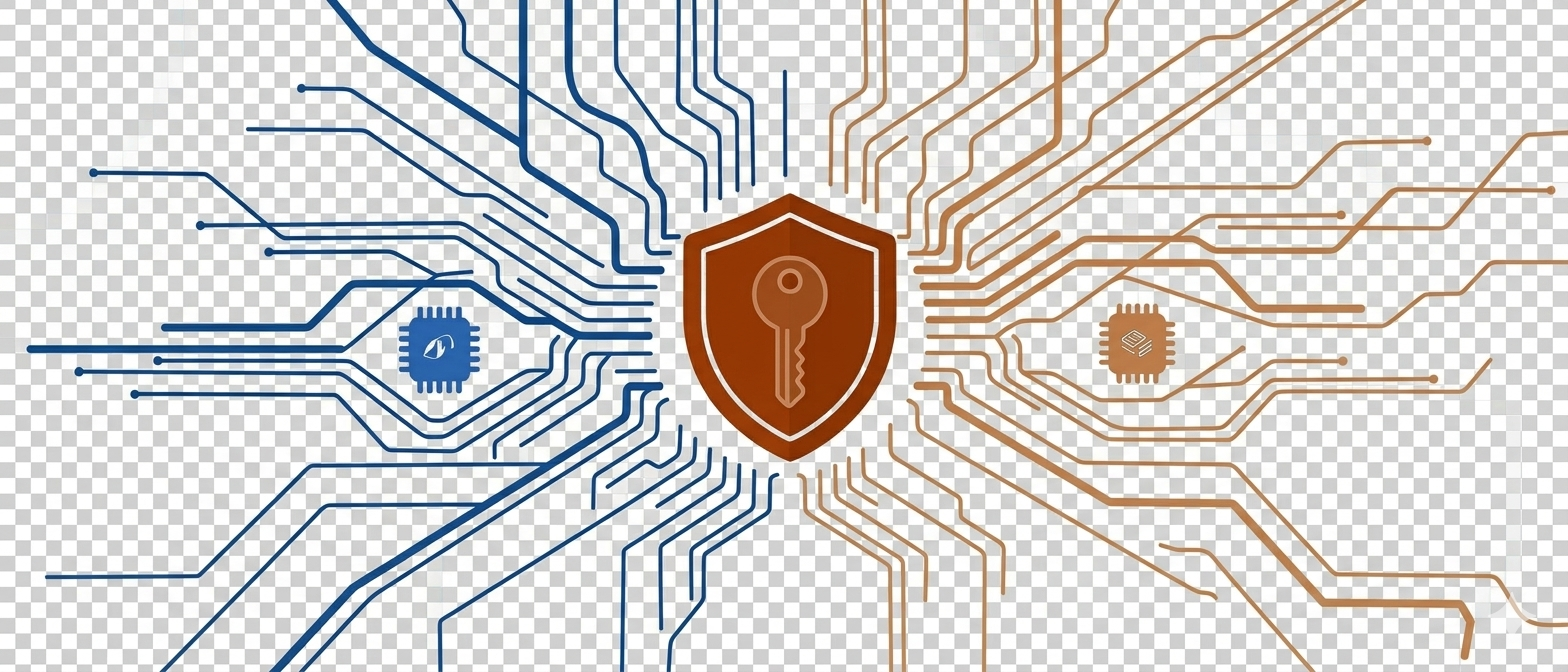
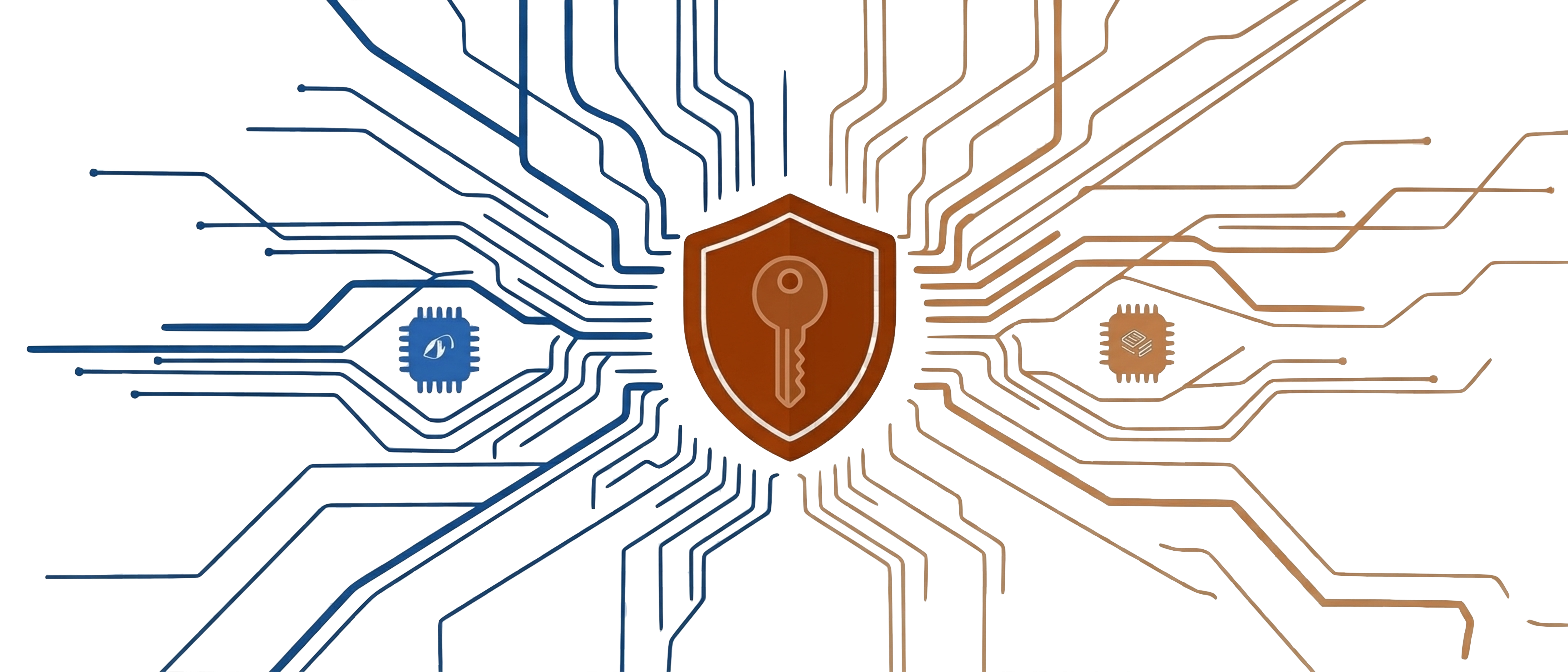
feat: wallet UI build out

diff --git a/app/(tabs)/wallet.tsx b/app/(tabs)/wallet.tsx
@@ -1,32 +1,18 @@
-import * as React from 'react';
-import { ScrollView, RefreshControl, View, Pressable } from 'react-native';
-import * as Clipboard from 'expo-clipboard';
-import * as Haptics from 'expo-haptics';
-import { useStore } from '@tanstack/react-store';
+import { QRCode } from '@/components/ui/QRCode';
 import { Screen } from '@/components/ui/Screen';
 import { Text } from '@/components/ui/text';
-import { Button } from '@/components/ui/button';
-import { MaterialIcons } from '@expo/vector-icons';
-import { useColorScheme } from 'nativewind';
-import { THEME } from '@/lib/theme';
-import { Modal } from '@/components/Modal';
-import { QRCode } from '@/components/ui/QRCode';
-import { networkStore, setNetwork, type Network } from '@/stores/network';
-import { useActiveAccount } from '@/hooks/useActiveAccount';
 import { useAccountBalance } from '@/hooks/useAccountBalance';
+import { useActiveAccount } from '@/hooks/useActiveAccount';
+import { THEME } from '@/lib/theme';
+import { networkStore } from '@/stores/network';
 import { formatMicroAmount, truncateAddress } from '@/utils/format';
-import { cn } from '@/lib/utils';
-
-const NETWORKS: Network[] = ['testnet', 'mainnet'];
-
-function BalanceCard({ label, amount }: { label: string; amount: bigint }) {
-  return (
-    <View className="mb-4 rounded-2xl bg-card p-5">
-      <Text className="mb-1 text-sm text-muted-foreground">{label}</Text>
-      <Text className="text-2xl font-bold text-card-foreground">{formatMicroAmount(amount, 6)}</Text>
-    </View>
-  );
-}
+import { MaterialIcons } from '@expo/vector-icons';
+import { useStore } from '@tanstack/react-store';
+import * as Clipboard from 'expo-clipboard';
+import * as Haptics from 'expo-haptics';
+import { useColorScheme } from 'nativewind';
+import * as React from 'react';
+import { Pressable, RefreshControl, ScrollView, View } from 'react-native';
 
 export default function WalletTab() {
   const network = useStore(networkStore, (s) => s.network);
@@ -34,10 +20,7 @@ export default function WalletTab() {
   const iconColor = colorScheme === 'dark' ? THEME.dark.primary : THEME.light.primary;
   const { address } = useActiveAccount();
   const { algoMicro, usdcMicro, isRefreshing, error, refetch } = useAccountBalance(address, network);
-  // `copied` is shared intentionally: the address-card icon and the modal copy
-  // button both reflect the same "address copied" feedback.
   const [copied, setCopied] = React.useState(false);
-  const [receiveOpen, setReceiveOpen] = React.useState(false);
   const copyResetTimer = React.useRef<ReturnType<typeof setTimeout> | null>(null);
 
   React.useEffect(
@@ -62,32 +45,23 @@ export default function WalletTab() {
         refreshControl={<RefreshControl refreshing={isRefreshing} onRefresh={refetch} />}
         showsVerticalScrollIndicator={false}
       >
-        <View className="my-4 flex-row rounded-full bg-muted p-1">
-          {NETWORKS.map((n) => (
-            <Pressable
-              key={n}
-              onPress={() => setNetwork(n)}
-              accessibilityRole="radio"
-              accessibilityState={{ selected: network === n }}
-              className={cn('flex-1 items-center rounded-full py-2', network === n && 'bg-background')}
-            >
-              <Text
-                className={cn(
-                  'text-sm capitalize',
-                  network === n ? 'font-semibold text-foreground' : 'text-muted-foreground',
-                )}
-              >
-                {n}
-              </Text>
-            </Pressable>
-          ))}
+        <View className="mb-8 mx-2 items-left">
+          <Text className="mb-2 text-sm font-medium uppercase tracking-wide text-muted-foreground">
+            Wallet Balance
+          </Text>
+          <Text className="text-5xl font-bold text-foreground">
+            {formatMicroAmount(usdcMicro, 6)} USDC
+          </Text>
+          <Text className="mt-3 text-base text-muted-foreground">
+            {formatMicroAmount(algoMicro, 6)} ALGO
+          </Text>
         </View>
 
         <Pressable
           onPress={copyAddress}
           accessibilityRole="button"
           accessibilityLabel="Copy wallet address"
-          className="mb-4 rounded-2xl bg-card p-5"
+          className="mb-4 rounded-2xl bg-card py-10 px-5 gap-5"
         >
           <Text className="mb-1 text-sm text-muted-foreground">Wallet address</Text>
           <View className="flex-row items-center justify-between">
@@ -96,31 +70,23 @@ export default function WalletTab() {
             </Text>
             <MaterialIcons name={copied ? 'check' : 'content-copy'} size={20} color={iconColor} />
           </View>
-        </Pressable>
 
-        <BalanceCard label="ALGO" amount={algoMicro} />
-        <BalanceCard label="USDC" amount={usdcMicro} />
+          {address ? (
+            <View className="items-center gap-4">
+              <QRCode value={address} />
+              <Text className="px-6 text-center text-sm text-muted-foreground">
+                Scan the QR code to receive funds to this address
+              </Text>
+            </View>
+          ) : null}
+        </Pressable>
 
         {error ? (
           <Text className="mb-4 text-sm text-destructive">
             Couldn&apos;t load balances. Pull to refresh.
           </Text>
         ) : null}
-
-        <Button onPress={() => setReceiveOpen(true)} disabled={!address}>
-          <Text>Receive</Text>
-        </Button>
       </ScrollView>
-
-      <Modal visible={receiveOpen} onClose={() => setReceiveOpen(false)} title="Receive">
-        <View className="items-center gap-4">
-          {address ? <QRCode value={address} /> : null}
-          <Text className="text-center text-sm text-card-foreground">{address}</Text>
-          <Button variant="outline" onPress={copyAddress}>
-            <Text>{copied ? 'Copied' : 'Copy address'}</Text>
-          </Button>
-        </View>
-      </Modal>
     </Screen>
   );
 }

diff --git a/components/navigation/AppHeader.tsx b/components/navigation/AppHeader.tsx
@@ -8,33 +8,49 @@ import { useSafeAreaInsets } from 'react-native-safe-area-context';
 
 interface AppHeaderProps {
   title?: string;
+  // The menu and action icons are only relevant on the chat page; other pages
+  // show just the centered title.
+  showActions?: boolean;
 }
 
-function AppHeader({ title = 'Chat' }: AppHeaderProps) {
+function AppHeader({ title = 'Chat', showActions = false }: AppHeaderProps) {
   const router = useRouter();
   const insets = useSafeAreaInsets();
   return (
     <View
-      className="flex-row items-center justify-between border-b border-border bg-card px-2"
+      className="border-b border-border bg-card px-2"
       style={{ paddingTop: insets.top }}
     >
-      <View className="w-[100]">
-        <IconButton name="menu" accessibilityLabel="Open chats" onPress={toggleDrawer} />
-      </View>
-      <View className="grow items-center justify-center">
-        <Text className="text-base font-semibold text-foreground">{title}</Text>
-      </View>
-      <View className="w-[100] flex-row justify-end gap-2">
-        <IconButton
-          name="qr-code-scanner"
-          accessibilityLabel="Scan QR code"
-          onPress={() => router.push('/scan')}
-        />
-        <IconButton
-          name="smart-toy"
-          accessibilityLabel="Agent profile"
-          onPress={() => router.push('/profile')}
-        />
+      <View className="h-14 flex-row items-center justify-between">
+        <View className="w-[100]">
+          {showActions ? (
+            <IconButton name="menu" accessibilityLabel="Open chats" onPress={toggleDrawer} />
+          ) : null}
+        </View>
+        <View className="grow items-center justify-center">
+          <Text className="text-base font-semibold text-foreground">{title}</Text>
+        </View>
+        <View className="w-[100] flex-row">
+          {showActions ? (
+            <>
+              <IconButton
+                name="qr-code-scanner"
+                accessibilityLabel="Scan QR code"
+                onPress={() => router.push('/scan')}
+              />
+              <IconButton
+                name="history"
+                accessibilityLabel="History"
+                onPress={() => router.push('/history')}
+              />
+              <IconButton
+                name="smart-toy"
+                accessibilityLabel="Agent profile"
+                onPress={() => router.push('/profile')}
+              />
+            </>
+          ) : null}
+        </View>
       </View>
     </View>
   );

diff --git a/utils/format.ts b/utils/format.ts
@@ -1,10 +1,15 @@
-export function formatMicroAmount(value: bigint, decimals: number): string {
+import { encodeAddress } from '@algorandfoundation/algokit-utils';
+
+export function formatMicroAmount(value: bigint, decimals: number, minDecimals = 2): string {
   const negative = value < 0n;
   const abs = negative ? -value : value;
   const base = 10n ** BigInt(decimals);
   const whole = abs / base;
   const frac = abs % base;
-  const fracStr = frac.toString().padStart(decimals, '0').replace(/0+$/, '');
+  // Strip insignificant trailing zeros, but keep at least `minDecimals` places
+  // so balances read like "12.50" rather than "12.5" / "12".
+  const trimmed = frac.toString().padStart(decimals, '0').replace(/0+$/, '');
+  const fracStr = trimmed.padEnd(Math.min(minDecimals, decimals), '0');
   const result = fracStr ? `${whole}.${fracStr}` : `${whole}`;
   return negative ? `-${result}` : result;
 }
@@ -12,4 +17,26 @@ export function formatMicroAmount(value: bigint, decimals: number): string {
 export function truncateAddress(address: string, lead = 6, trail = 4): string {
   if (address.length <= lead + trail) return address;
   return `${address.slice(0, lead)}…${address.slice(-trail)}`;
+}
+
+// Canonical Algorand addresses are 58 base32 chars (A-Z, 2-7) with a checksum.
+const CANONICAL_ALGORAND_ADDRESS = /^[A-Z2-7]{58}$/;
+
+/**
+ * Normalizes an account address into the canonical Algorand format. The keystore
+ * auto-populates `account.address` with the raw 32-byte public key encoded as
+ * base64 (e.g. "EXSgA3yQ…="), which `getInformation`/QR/copy all reject. Convert
+ * it once at the source so every consumer gets the real address.
+ */
+export function normalizeAlgorandAddress(raw?: string): string | undefined {
+  if (!raw) return undefined;
+  if (CANONICAL_ALGORAND_ADDRESS.test(raw)) return raw;
+  try {
+    const bytes = Uint8Array.from(Buffer.from(raw, 'base64'));
+    if (bytes.length === 32) return encodeAddress(bytes);
+  } catch {
+    // Not base64 / not a 32-byte key — fall through and return as-is so the
+    // caller can decide how to handle an unexpected value.
+  }
+  return raw;
 }

diff --git a/hooks/useAccountBalance.ts b/hooks/useAccountBalance.ts
@@ -14,9 +14,21 @@ export interface AccountBalance {
   refetch: () => Promise<void>;
 }
 
+// A valid address that simply isn't on chain yet isn't an error — algod returns
+// it as a zero balance. But some nodes/configs signal an unknown account with a
+// 404 instead, so treat that as an empty account rather than a failure. We check
+// every place the status can surface (direct, nested under `response`/`body`) and
+// fall back to the message text.
 function isAccountNotFound(err: unknown): boolean {
-  if ((err as { status?: number })?.status === 404) return true;
-  const message = (err as Error)?.message ?? '';
+  if (!err || typeof err !== 'object') return false;
+  const e = err as {
+    status?: number;
+    response?: { status?: number };
+    body?: { message?: string };
+    message?: string;
+  };
+  if (e.status === 404 || e.response?.status === 404) return true;
+  const message = `${e.body?.message ?? ''} ${e.message ?? ''}`;
   return /does not exist|no accounts found|account not found/i.test(message);
 }
 
@@ -49,6 +61,14 @@ export function useAccountBalance(
           setUsdcMicro(0n);
           setError(null);
         } else {
+          // Log the underlying cause: the UI only shows a generic "couldn't
+          // load balances" message, so without this the real error (network
+          // failure, unexpected status, parse error) is invisible.
+          console.error('[useAccountBalance] failed to load balance', {
+            network,
+            address,
+            error: err,
+          });
           setError(err as Error);
         }
       } finally {

diff --git a/app/(tabs)/_layout.tsx b/app/(tabs)/_layout.tsx
@@ -15,7 +15,9 @@ export default function TabsLayout() {
       tabBar={(props) => <TabBar {...props} />}
       screenOptions={({ route }) => ({
         headerShown: true,
-        header: () => <AppHeader title={TITLES[route.name] ?? 'AC2'} />,
+        header: () => (
+          <AppHeader title={TITLES[route.name] ?? 'AC2'} showActions={route.name === 'chat'} />
+        ),
       })}
     >
       <Tabs.Screen name="chat" />

diff --git a/app/history.tsx b/app/history.tsx
@@ -1,0 +1,4 @@
+import { PlaceholderScreen } from '@/components/PlaceholderScreen';
+export default function ProfileOverlay() {
+  return <PlaceholderScreen icon="history" title="Audit History" subtitle="Coming soon" />;
+}

diff --git a/hooks/useActiveAccount.ts b/hooks/useActiveAccount.ts
@@ -1,7 +1,8 @@
 import { useStore } from '@tanstack/react-store';
 import { accountsStore } from '@/stores/accounts';
+import { normalizeAlgorandAddress } from '@/utils/format';
 
 export function useActiveAccount() {
   const account = useStore(accountsStore, (s) => s.accounts[0]);
-  return { account, address: account?.address };
+  return { account, address: normalizeAlgorandAddress(account?.address) };
 }